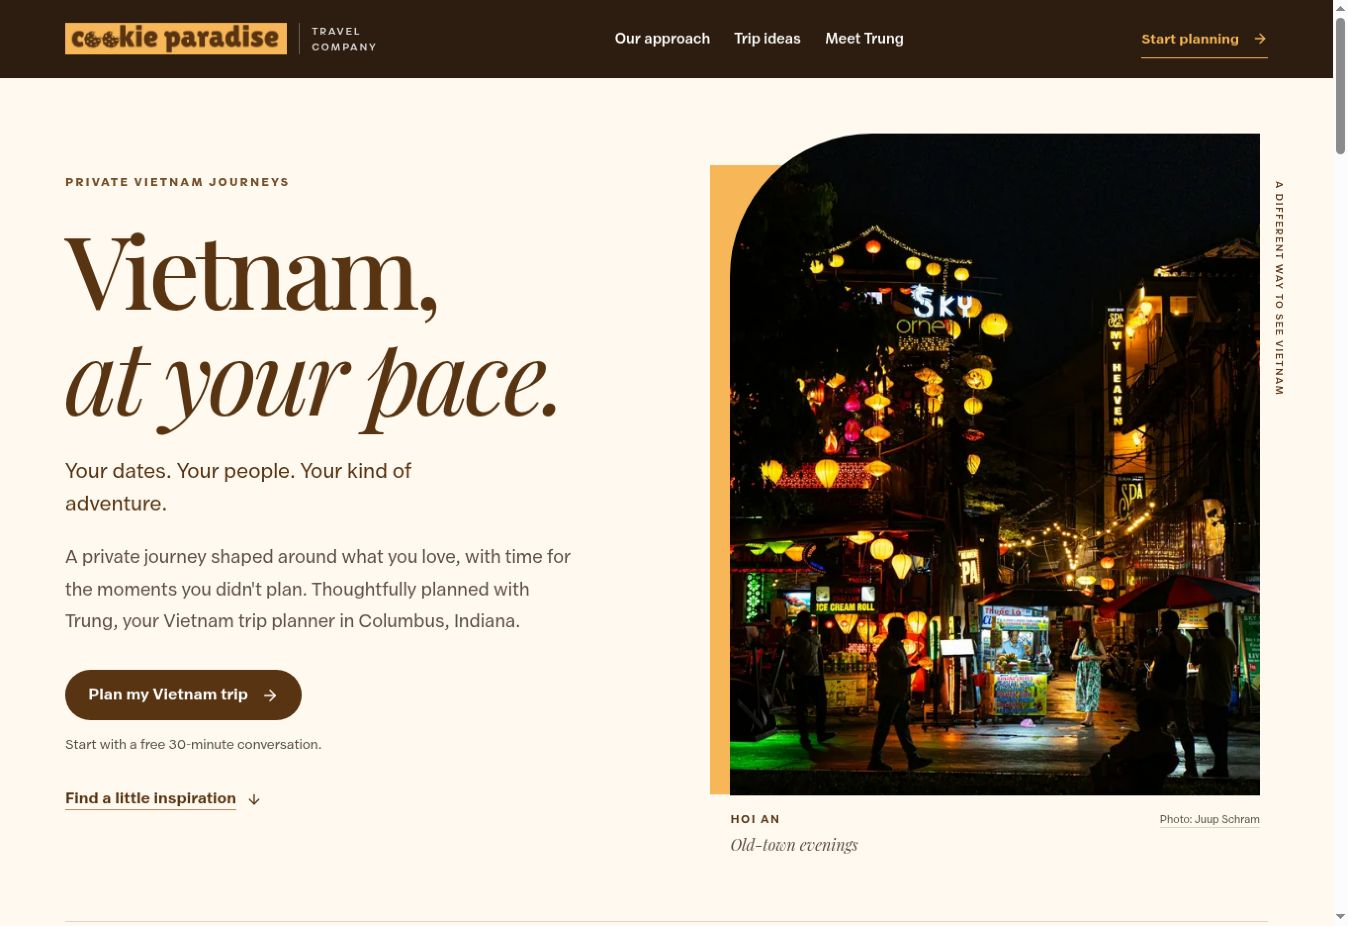
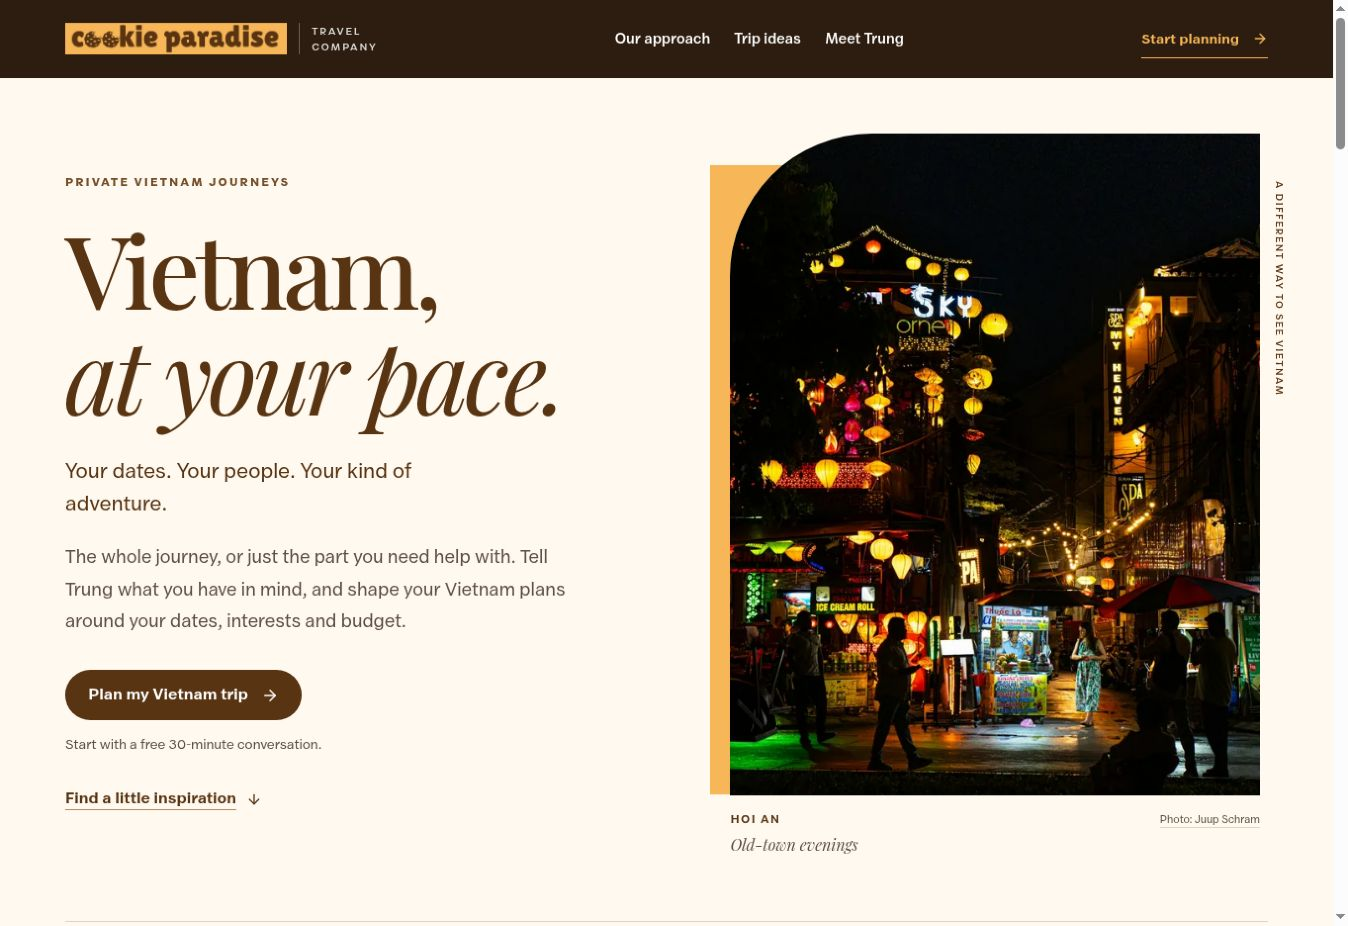
Broaden private travel planning to individual arrangements and special requests

Changed region(s): [[0.0312, 0.5745, 0.405, 0.6955]]

diff --git a/app/fit/page.tsx b/app/fit/page.tsx
@@ -12,7 +12,7 @@ export const dynamic = "force-dynamic";
 
 export const metadata: Metadata = {
   title: "Private Vietnam Travel & Custom Trips | Cookie Paradise Travel",
-  description: "Plan a private Vietnam journey around your dates, interests and pace. Start with a free 30-minute conversation with Trung, your Columbus, Indiana-based Vietnam trip planner.",
+  description: "A whole Vietnam journey or help with one arrangement. Plan around your dates, interests and budget with Trung, your Columbus, Indiana-based Vietnam trip planner.",
   alternates: { canonical: "https://cookieparadisetravel.com/fit" },
   openGraph: {
     title: "Vietnam, at your pace. | Cookie Paradise Travel",
@@ -30,6 +30,8 @@ export const metadata: Metadata = {
 
 const questions = [
   ["What is FIT travel?", "Here, FIT means a custom, independent journey for you and your travel companions. You work with Trung on the route and arrangements, rather than joining a scheduled group departure. Independent travel can still include prearranged hotels, transfers, experiences and local guides, as agreed in your proposal."],
+  ["Can you help with just one part of my trip?", "Absolutely. Ask for help with a hotel, a transfer, a local guide, an experience, or whatever is missing from your plans. You can book other parts yourself and ask Trung to bring the rest together. We will confirm the arrangements and any fees with you before proceeding."],
+  ["What if I have an unusual or very specific request?", "Tell Trung what you have in mind. A family visit, a special occasion, a restaurant reservation, a particular place you want to see, or a different kind of travel experience can all be the starting point. We will explore the possibilities with you and confirm what can be arranged, availability and cost."],
   ["Is this the June 2027 group trip?", "This is a separate service. Your private journey is planned around your preferred dates, party and interests, subject to availability. The dates, group-size requirements and published prices for Discover Southern Vietnam do not automatically apply to a custom trip."],
   ["Can I travel solo, as a couple, or with family and friends?", "Yes. Tell Trung who is traveling, including the ages of any children, and how you like to spend your days. Room arrangements, transport and activities are considered for your own party and reflected in your proposal."],
   ["How much does a private trip cost?", "The price depends on your dates, trip length, number of travelers, rooms, hotels, transport and experiences. The initial 30-minute consultation is free. Any planning fees, included services, payment schedule and booking terms will be explained before you decide to proceed."],
@@ -43,7 +45,7 @@ export default async function FitTravelPage() {
   const emailBody = [
     "Hi Trung, I'd like to discuss a private Vietnam trip.", "",
     "Approximate dates or travel window:", "How many travelers:", "Places or experiences I am interested in:",
-    "Approximate trip length:", "Comfort preferences and budget (if known):", "",
+    "Approximate trip length:", "What I would like help with (one arrangement or the whole trip):", "Comfort preferences and budget (if known):", "",
     ...(partner ? [`Referred by: ${partner.name} (${partner.code})`, ""] : []),
     "Sent from the private Vietnam travel page: https://cookieparadisetravel.com/fit",
   ].join("\r\n");
@@ -73,7 +75,7 @@ export default async function FitTravelPage() {
         <p className="fit-kicker">Private Vietnam journeys</p>
         <h1 id="fit-title">Vietnam,<br /><em>at your pace.</em></h1>
         <p className="fit-hero-intro">Your dates. Your people. Your kind of adventure.</p>
-        <p className="fit-body">A private journey shaped around what you love, with time for the moments you didn&apos;t plan. Thoughtfully planned with Trung, your Vietnam trip planner in Columbus, Indiana.</p>
+        <p className="fit-body">The whole journey, or just the part you need help with. Tell Trung what you have in mind, and shape your Vietnam plans around your dates, interests and budget.</p>
         <a className="fit-button fit-button-dark" href="#fit-plan">Plan my Vietnam trip <ArrowRight size={18} aria-hidden="true" /></a>
         <p className="fit-small fit-hero-note">Start with a free 30-minute conversation.</p>
         <a className="fit-text-link fit-explore" href="#fit-ideas">Find a little inspiration <ArrowDown size={16} aria-hidden="true" /></a>
@@ -93,12 +95,12 @@ export default async function FitTravelPage() {
     </div>
 
     <section id="fit-approach" className="fit-wrap fit-section fit-approach" aria-labelledby="fit-approach-title">
-      <div><p className="fit-kicker">Independent travel. Personally planned.</p><h2 id="fit-approach-title">The freedom to explore.<br /><em>A plan that feels like you.</em></h2></div>
+      <div><p className="fit-kicker">As much help as you want</p><h2 id="fit-approach-title">One arrangement.<br /><em>Or the whole adventure.</em></h2></div>
       <div className="fit-approach-details">
-        <p className="fit-body">Perhaps you want to linger in Hoi An, follow the food through Ho Chi Minh City (Saigon), or leave a little space for family connections. Your itinerary begins with the way you want to travel.</p>
-        <p className="fit-body">We&apos;ll talk through the route, stays, transport and experiences that suit your party. You choose the balance of guided discovery and time on your own; the agreed arrangements are set out in your proposal.</p>
+        <p className="fit-body">Perhaps you&apos;ve booked your flights and need help with the rest. Maybe it&apos;s a hotel, an airport transfer, a guide for a day, or time with family between a few adventures. Or perhaps you&apos;d like the entire journey planned for you.</p>
+        <p className="fit-body">Bring your ideas, your existing plans and your special requests. From Ho Chi Minh City (Saigon) to wherever your Vietnam story takes you, we&apos;ll work out the help you want. The arrangements, availability and cost are confirmed in your proposal.</p>
         <ul className="fit-options">
-          {["Dates and trip length", "Hotel and room preferences", "Food, culture and local experiences", "Guiding, transport and downtime"].map(item => <li key={item}><Check size={16} aria-hidden="true" />{item}</li>)}
+          {["Complete trips or individual arrangements", "Help with plans you've already started", "Hotels, transport, guides and experiences", "Family visits, celebrations and special requests"].map(item => <li key={item}><Check size={16} aria-hidden="true" />{item}</li>)}
         </ul>
       </div>
     </section>
@@ -124,7 +126,7 @@ export default async function FitTravelPage() {
       <div className="fit-process-heading"><p className="fit-kicker">From an idea to an itinerary</p><h2 id="fit-process-title">A personal trip.<br /><em>A clear way forward.</em></h2></div>
       <ol className="fit-process">
         {[
-          ["01", "Start with a conversation.", "Tell Trung about your travel window, your people, your interests and your budget. You don't need every answer before we talk."],
+          ["01", "Start with a conversation.", "Tell Trung what you want to do and where you'd like help. Share your dates, interests, budget and any plans you've already made."],
           ["02", "Shape the details together.", "Discuss a route, the right pace, stays and experiences. Refine the plan around what matters most to you."],
           ["03", "Review, then decide.", "Your proposal sets out the arrangements, price and booking terms. Review the details before making a commitment."],
         ].map(([number, title, text]) => <li key={number}><span className="fit-step-number" aria-hidden="true">{number}</span><h3>{title}</h3><p className="fit-body">{text}</p></li>)}
@@ -150,7 +152,7 @@ export default async function FitTravelPage() {
     <section id="fit-plan" className="fit-plan" aria-labelledby="fit-plan-title">
       <div className="fit-wrap fit-section fit-plan-grid">
         <div><p className="fit-kicker">Your Vietnam starts with a conversation</p><h2 id="fit-plan-title">Tell us what<br /><em>you&apos;re dreaming of.</em></h2><p className="fit-body">A free 30-minute Google Meet with Trung. Bring an idea, a few questions, or simply the wish to go.</p><div className="fit-plan-actions"><ConsultationLink /><a className="fit-email-link" href={emailHref}>Email Trung your trip ideas <ArrowUpRight size={17} aria-hidden="true" /></a></div><p className="fit-small">No obligation to book. The email link opens your email app with a few planning prompts; you can edit them before sending.</p><a className="fit-contact-address" href="mailto:trung@cookieparadise.co">trung@cookieparadise.co</a></div>
-        <aside className="fit-conversation-note"><p className="fit-kicker">If you know, bring along…</p><ul><li>Your approximate dates and trip length</li><li>Who is traveling with you</li><li>Places and experiences you&apos;re drawn to</li><li>Your preferred comfort level and budget</li></ul><p className="fit-body">Still figuring it out? That&apos;s what the conversation is for.</p>{partner && <div className="fit-referral-disclosure"><ReferralBrand /></div>}</aside>
+        <aside className="fit-conversation-note"><p className="fit-kicker">If you know, bring along…</p><ul><li>What you&apos;d like help with</li><li>Your dates, travelers and existing plans</li><li>Places, experiences or special requests</li><li>Your preferred comfort level and budget</li></ul><p className="fit-body">Still figuring it out? That&apos;s what the conversation is for.</p>{partner && <div className="fit-referral-disclosure"><ReferralBrand /></div>}</aside>
       </div>
     </section>
 

diff --git a/docs/fit-landing-review/README.md b/docs/fit-landing-review/README.md
@@ -21,16 +21,29 @@ The page reads the existing referral cookie through the existing partner resolve
 
 A homepage footer link and sitemap entry make the new page discoverable. The shared photo component gains an optional `priority` prop for the new hero; existing photos retain lazy loading by default.
 
-## Business details to confirm before publication
+## Service positioning and business policies
 
-Exact bookable services, planning fees or minimum budget, ideal traveler focus, the operating partner and in-country assistance arrangements remain for the owner to define. The draft therefore describes a planning conversation and individually agreed proposals rather than promising specific inclusions or round-the-clock support. The existing group departure remains a separate offering.
+The owner confirmed broad flexibility: help with one arrangement, selected portions of an existing plan, a full journey, family visits, celebrations or other special requests. The hero, approach section, email prompts and FAQs now make this explicit. Arrangements, feasibility, availability and prices are confirmed in each proposal.
+
+The initial call remains free under the existing offering. No new planning fee, advertised minimum budget, supplier relationship or round-the-clock support promise was adopted. The existing group departure remains a separate offering. The new pricing and service research below is for the owner's decision, not a set of terms automatically applied to this website.
+
+### Comparable-service research, November 2, 2026
+
+| Operator | Published practice |
+| --- | --- |
+| [Local Vietnam](https://localvietnam.com/tailor-made-vietnam-tour/) | Free custom proposals, budget-based trip quotes and direct local-team contact through WhatsApp during travel. |
+| [What About Vietnam](https://www.whataboutvietnam.com/trip-plan-request-form) | US$150 upfront, nonrefundable full-trip planning fee, credited toward the trip when the client books the tour with them. |
+| [Wellness Vietnam](https://wellnessvietnam.com/planning-fees/) | Planning fees of $300 for up to seven days, $500 for 8–14 and $700 for 15–21. Separate from the trip price and nonrefundable; includes up to two revision rounds. Its [custom trips page](https://wellnessvietnam.com/custom-trips/) addresses individuals, couples, families and private groups. |
+| [Scott Dunn](https://www.scottdunn.com/us/about/why-scott-dunn/how-we-work) | Phone or online inquiry, a designated specialist, a refined quote, then booking. Advertises 24/7 support backed by global offices. |
+
+These examples show several pricing approaches, not a single industry standard. Recommended options for discussion: keep the first call free, quote individual requests on scope, and consider a credited planning fee for extensive itinerary design. Keep the audience broad, identify the relevant operating/support contacts in each proposal, and consider a dedicated short FIT inquiry form alongside the call option. No fee or backend-form policy has been implemented by this research update.
 
 ## Verification
 
 - Production build: passed, including the new dynamic `/fit` route.
 - TypeScript: passed.
 - ESLint on changed source files: no errors; homepage retains its existing image warnings.
-- Existing automated suite: 193 tests passed.
+- Existing automated suite: 193 tests passed on the initial feature. This follow-up changes copy only; the build, TypeScript, focused lint and phone layout checks were repeated successfully.
 - Diff whitespace check: passed.
 - Rendered HTML checks: one H1; all local fragment links resolve; image files and alt text exist; new hero is eager/high-priority; the scheduler URL matches current configuration.
 - Direct and two referral render checks: email subject/body correct; Columbus Uppercuts and Gossip Nails attribution appears only in the appropriate prepared email.
